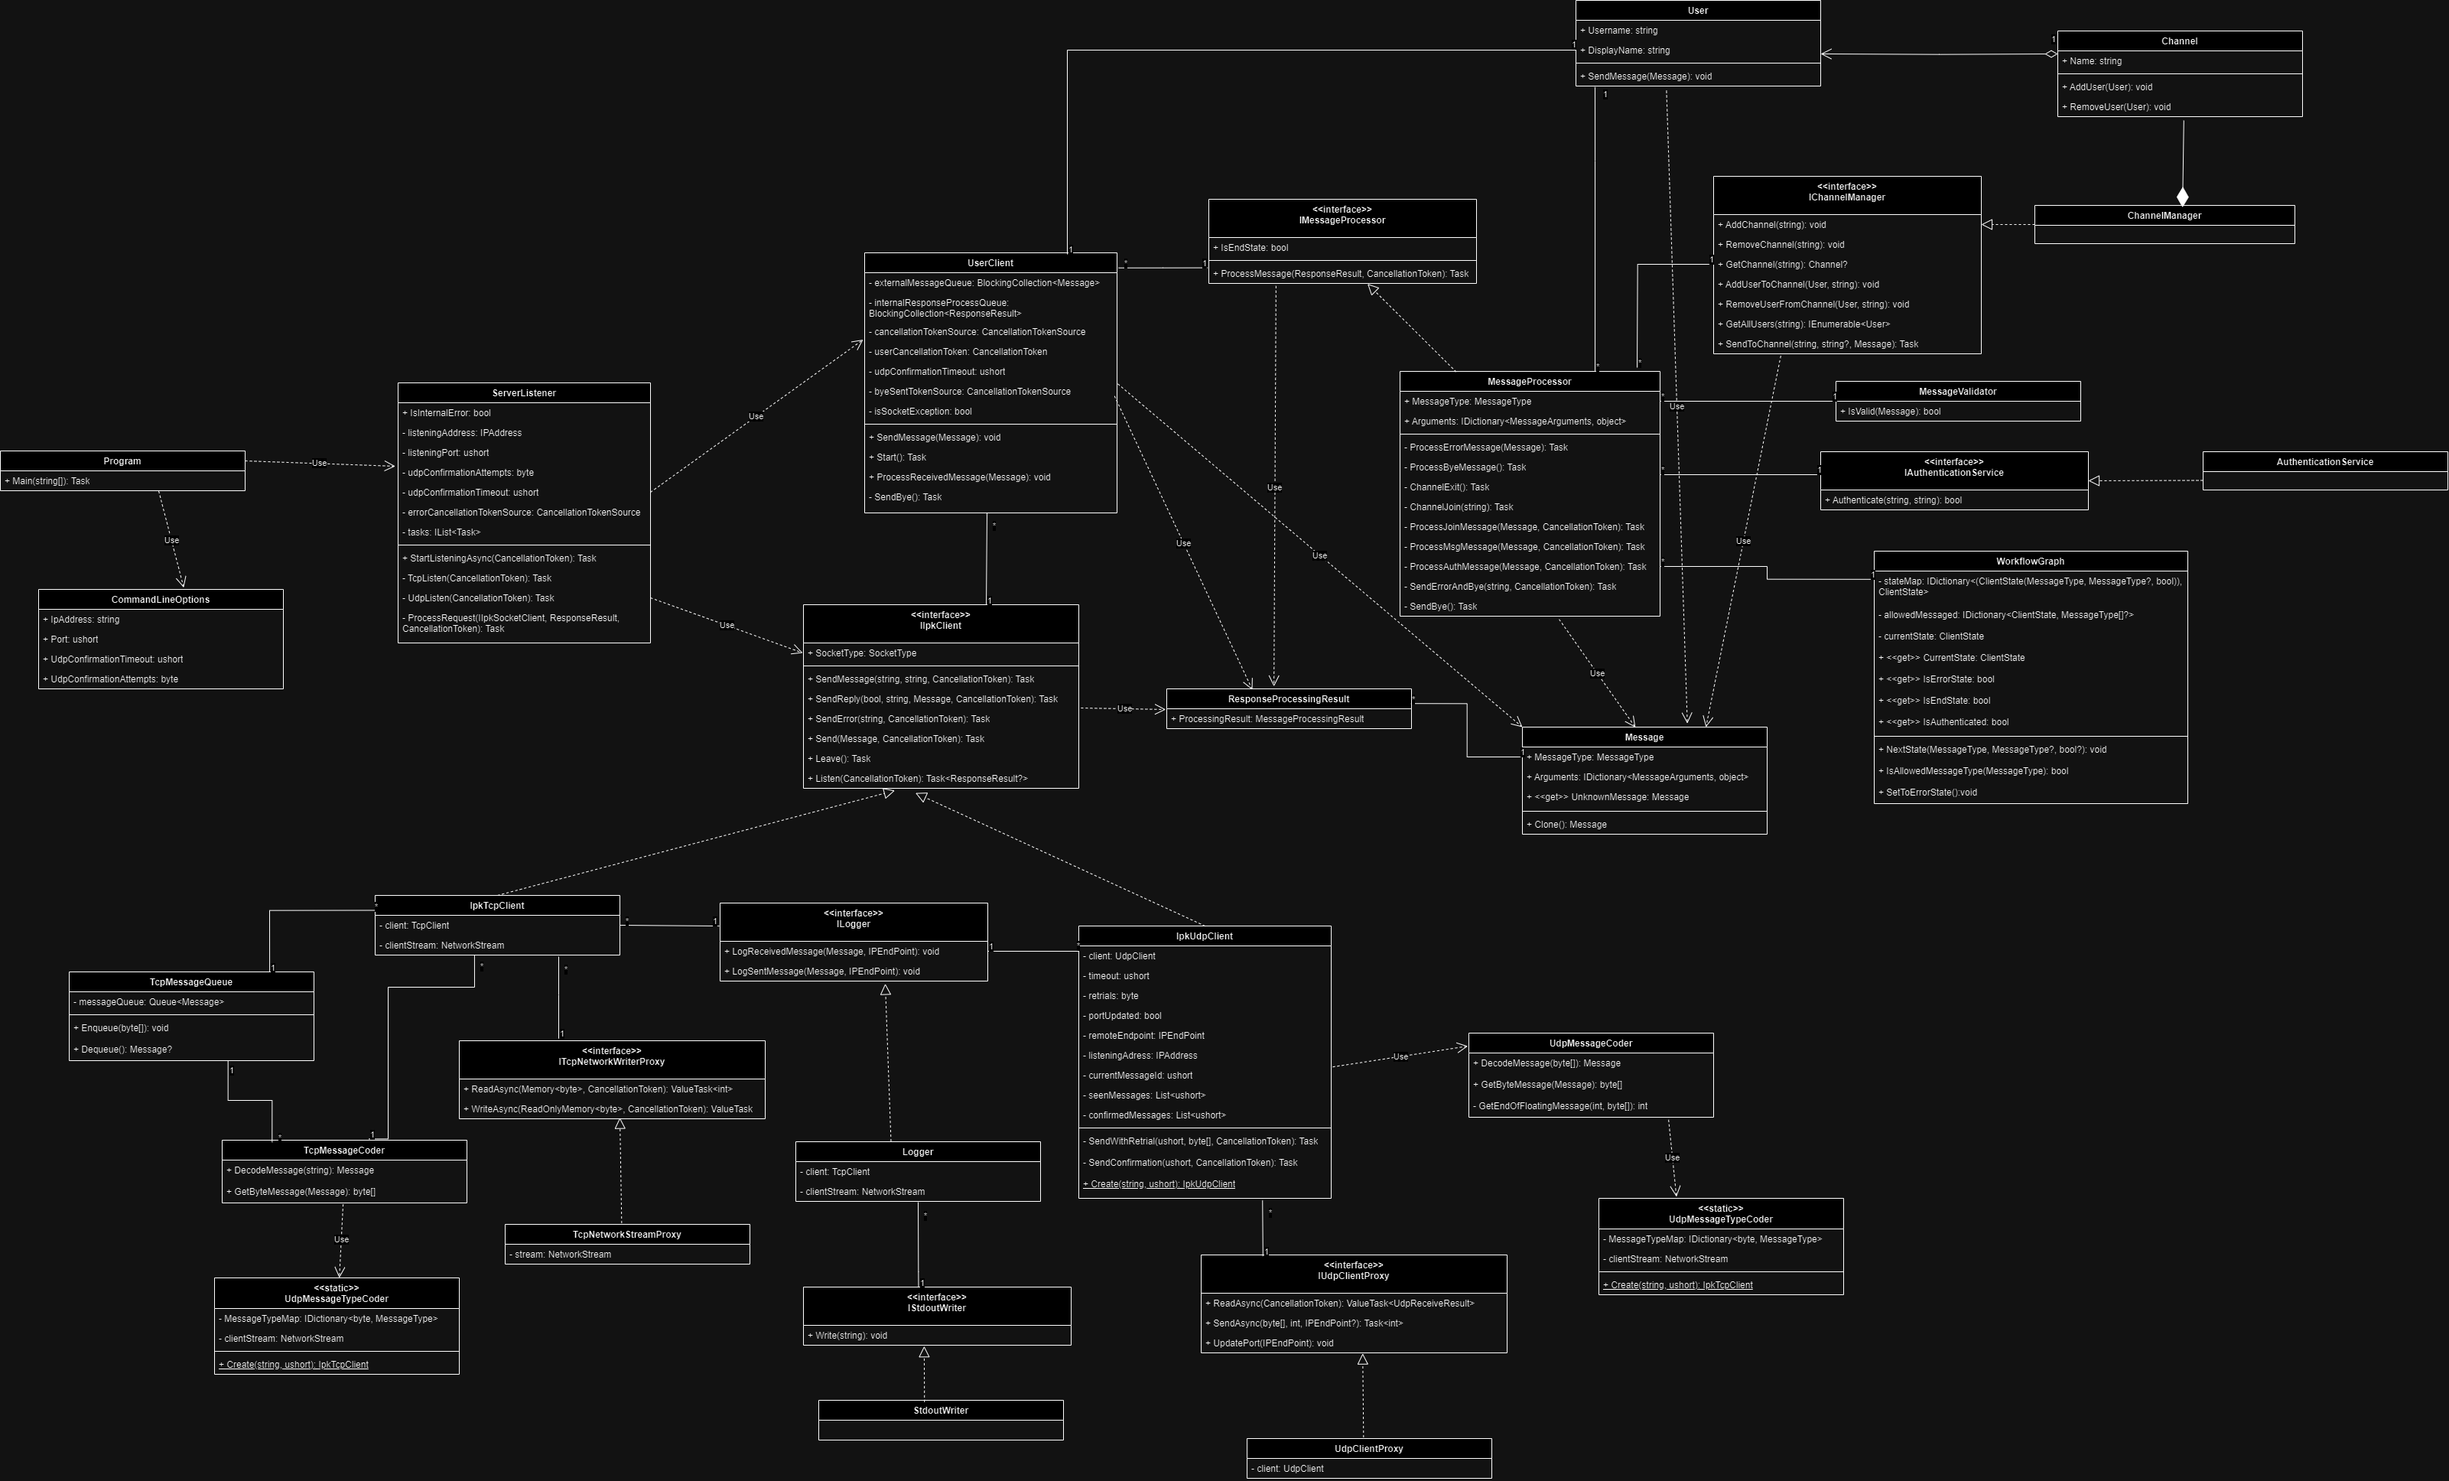
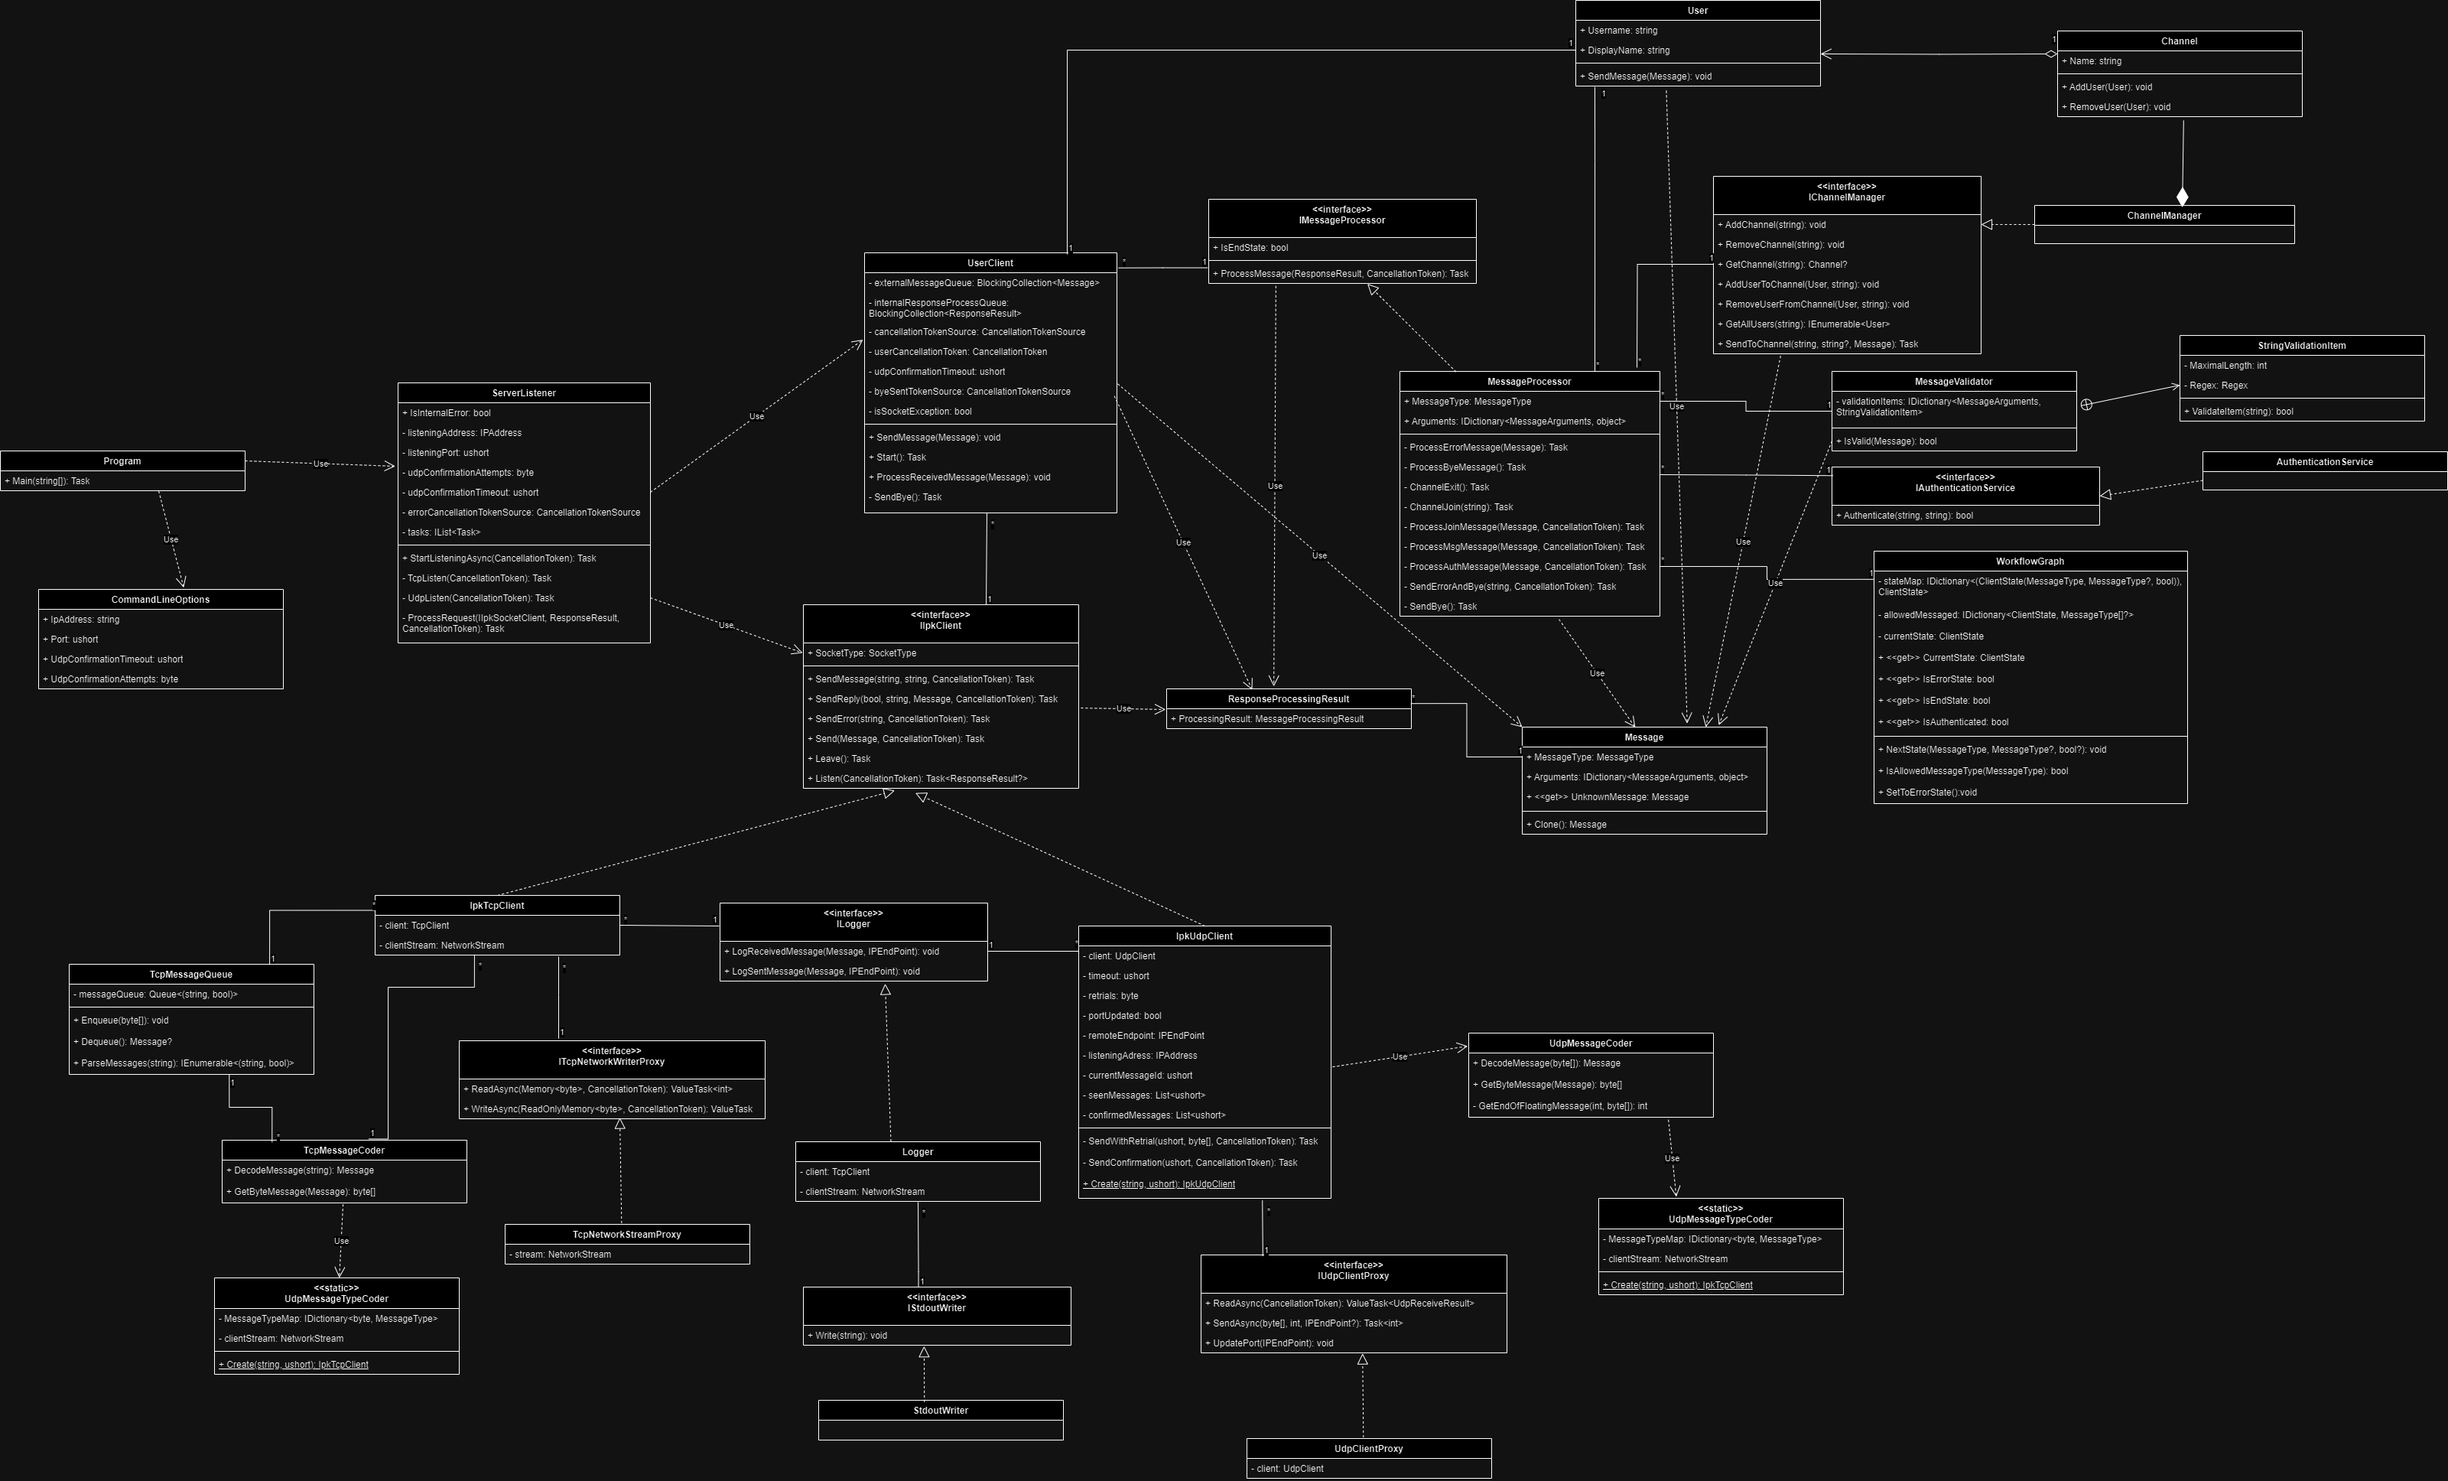
updated class diagram

diff --git a/ChatServer/Models/Validation/MessageValidator.cs b/ChatServer/Models/Validation/MessageValidator.cs
@@ -15,27 +15,28 @@ public class MessageValidator
             MaximalLength = maximalLength;
             Regex = new Regex(regex);
         }
-        
+
         public bool ValidateItem(string value)
         {
             return value.Length <= MaximalLength && Regex.IsMatch(value);
         }
     }
-    
-    private readonly IDictionary<MessageArguments, StringValidationItem> maximalLengths = new Dictionary<MessageArguments, StringValidationItem>
-    {
-        {MessageArguments.UserName, new(20, "^[A-z0-9-]+$")},
-        {MessageArguments.DisplayName, new(20, @"^[\x20-\x7E]+$")},
-        {MessageArguments.ChannelId, new(20, "^[A-z0-9.-]+$")},
-        {MessageArguments.MessageContent, new(1400, @"^[\x20-\x7E ]+$")},
-        {MessageArguments.Secret, new(128, @"^[A-z0-9-]+$")}
-    };
-    
+
+    private readonly IDictionary<MessageArguments, StringValidationItem> validationItems =
+        new Dictionary<MessageArguments, StringValidationItem>
+        {
+            { MessageArguments.UserName, new(20, "^[A-z0-9-]+$") },
+            { MessageArguments.DisplayName, new(20, @"^[\x20-\x7E]+$") },
+            { MessageArguments.ChannelId, new(20, "^[A-z0-9.-]+$") },
+            { MessageArguments.MessageContent, new(1400, @"^[\x20-\x7E ]+$") },
+            { MessageArguments.Secret, new(128, @"^[A-z0-9-]+$") }
+        };
+
     public bool IsValid(Message message)
     {
         foreach (var entry in message.Arguments)
         {
-            if (maximalLengths.TryGetValue(entry.Key, out var validationItem))
+            if (validationItems.TryGetValue(entry.Key, out var validationItem))
             {
                 if (!validationItem.ValidateItem((string)entry.Value))
                 {

diff --git a/ChatServer/SocketClients/Utilities/Tcp/TcpMessageQueue.cs b/ChatServer/SocketClients/Utilities/Tcp/TcpMessageQueue.cs
@@ -6,7 +6,7 @@ namespace ChatServer.SocketClients.Utilities.Tcp;
 public class TcpMessageQueue
 {
     private const string CLRF = "\r\n";
-    private Queue<(string message, bool isEnded)> messageQueue = new();
+    private Queue<(string message, bool hasEnd)> messageQueue = new();
     private readonly TcpMessageCoder messageCoder;
 
     public TcpMessageQueue(TcpMessageCoder messageCoder)
@@ -19,11 +19,13 @@ public class TcpMessageQueue
         var messageString = Encoding.UTF8.GetString(encodedMessage);
         var messages = ParseMessages(messageString);
 
-        if (messageQueue.Any() && !messageQueue.Last().isEnded)
+        if (messageQueue.Any() && !messageQueue.Last().hasEnd)
         {
             var lastMessage = messageQueue.Last();
             var firstMessage = messages.First();
-            messageQueue = new Queue<(string message, bool isEnded)>(messageQueue.Take(messageQueue.Count - 1));
+            
+            messageQueue = new Queue<(string message, bool hasEnd)>(messageQueue.Take(messageQueue.Count - 1));
+            
             if (firstMessage.hasEnd)
             {
                 firstMessage.message += CLRF;
